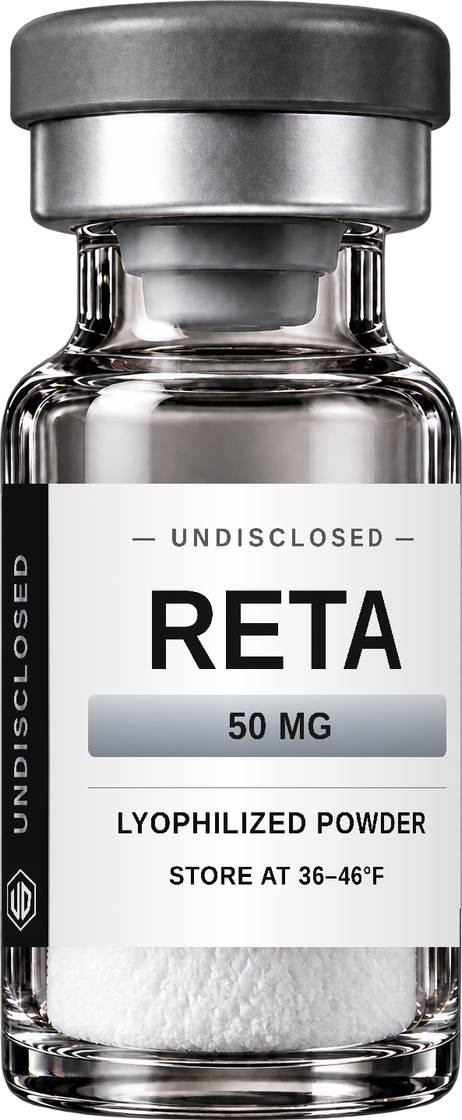
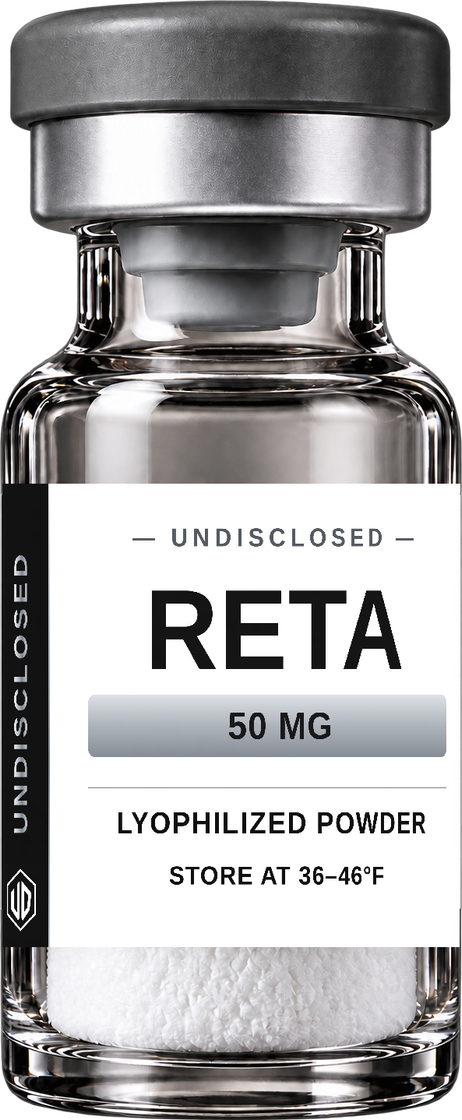
Vials: render label as flat uniform white (drop cylinder shade graying edges)
The cylinder shade darkened the label's edges to a light gray; paint the label
flat so the paper is uniform pure white and the color matches consistently.

Claude-Session: https://claude.ai/code/session_01M8Qtf7wum7sU3ieHpRfW3u

Changed region(s): [[0.8788, 0.4062, 1.0, 0.8438], [0.0909, 0.625, 0.1212, 0.75], [0.0, 0.7812, 0.0303, 0.8125]]

diff --git a/src/utils/udVialComposite.js b/src/utils/udVialComposite.js
@@ -132,7 +132,7 @@ export function composeVial(canvas, prepared, rot = 0) {
     const lx = Math.round(uSrc * (lw - 1));
     const ly = Math.min(lh - 1, Math.round(((y - fp.top) / (fp.h - 1)) * (lh - 1)));
     const li = (ly * lw + lx) * 4;
-    const shade = 1 - 0.13 * Math.abs(f); // gentle cylinder curvature only
+    const shade = 1; // gentle cylinder curvature only
     out[vi] = clamp(ld[li] * shade);
     out[vi + 1] = clamp(ld[li + 1] * shade);
     out[vi + 2] = clamp(ld[li + 2] * shade);
@@ -160,7 +160,7 @@ export function composeVial(canvas, prepared, rot = 0) {
       const uSrc = Math.max(0, Math.min(1, uc + rot + half * f));
       const lx = Math.round(uSrc * (lw - 1));
       const li = ((lh - 1) * lw + lx) * 4;
-      const shade = 1 - 0.13 * Math.abs(f);
+      const shade = 1;
       out[vi] = clamp(ld[li] * shade);
       out[vi + 1] = clamp(ld[li + 1] * shade);
       out[vi + 2] = clamp(ld[li + 2] * shade);
